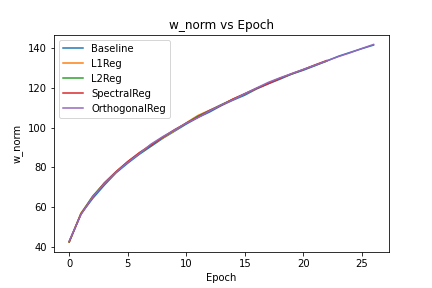
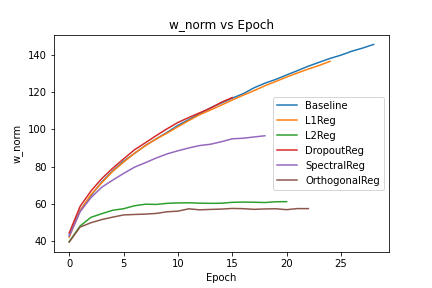
update

diff --git a/main.py b/main.py
@@ -13,6 +13,32 @@ print(tf.__version__)
 print("Num GPUs Available: ", N_GPUS)
 
 #%%
+def get_train_test(batch_size=32):
+    (x_train, y_train), (x_test, y_test) = tf.keras.datasets.mnist.load_data()
+    x_train, x_test = x_train[:, :, :, None].astype(np.float32), x_test[:, :, :, None].astype(np.float32)
+
+    # x_train = np.reshape(x_train, (-1, 784)).astype(np.float32)
+    # x_test = np.reshape(x_test, (-1, 784)).astype(np.float32)
+
+    # one-hot encoding 
+    oh = np.zeros((y_train.size, 10))
+    oh[np.arange(y_train.size), y_train] = 1 
+    y_train = oh
+
+    oh = np.zeros((y_test.size, 10))
+    oh[np.arange(y_test.size), y_test] = 1 
+    y_test = oh
+
+    # Reserve 10,000 samples for validation.
+    x_val = x_train[-10000:]
+    y_val = y_train[-10000:]
+    y_train = y_train[:-10000]
+    x_train = x_train[:-10000]
+
+    return (x_train, y_train), (x_val, y_val), (x_test, y_test)
+
+
+#%%
 def shuffle_and_overwrite(file_name):
     content = open(file_name, 'r').readlines()
     random.shuffle(content)
@@ -39,6 +65,7 @@ def inf():
 
 def train(trainer):
     multi_gpu = True if N_GPUS > 1 else False
+    multi_gpu = False 
     if multi_gpu:
         print('Using Multi-GPU setup...')
         with tf.device('/cpu:0'):
@@ -62,6 +89,9 @@ def train(trainer):
     else: 
         print('Not using Multi-GPU setup...')
 
+    # mnist test 
+    (x_train, y_train), (x_val, y_val), (x_test, y_test) = get_train_test()
+
     with tf.compat.v1.Session(config=tf.compat.v1.ConfigProto(allow_soft_placement=True)) as sess:
         best_sess = sess
         best_score = 0. 
@@ -72,16 +102,18 @@ def train(trainer):
         sess.run([tf.compat.v1.global_variables_initializer(), \
             tf.compat.v1.local_variables_initializer()])
 
-        train_handle_value, val_handle_value, test_handle_value = \
-            sess.run([trainer.train_handle, trainer.val_handle, trainer.test_handle])
+        # train_handle_value, val_handle_value, test_handle_value = \
+        #     sess.run([trainer.train_handle, trainer.val_handle, trainer.test_handle])
 
         for e in range(EPOCHS):
             metrics = init_metrics()
             
-            sess.run([trainer.train_iterator.initializer, \
-                trainer.val_iterator.initializer, trainer.test_iterator.initializer])
+            # sess.run([trainer.train_iterator.initializer, \
+            #     trainer.val_iterator.initializer, trainer.test_iterator.initializer])
 
             # training 
+            sess.run(trainer.dset_init, \
+                feed_dict={trainer.x_data: x_train, trainer.y_data: y_train})
             try: 
                 print('Training...')
                 sess.run(trainer.acc_initializer) # reset accuracy metric
@@ -95,31 +127,39 @@ def train(trainer):
                                     trainer.is_training: True})
                         metrics['train_acc'].append(acc)
                     else: 
-                        _, loss, _ = sess.run([trainer.train_op, trainer.loss, \
-                                    trainer.acc_op], \
-                                    feed_dict={trainer.handle_flag: train_handle_value,
-                                    trainer.is_training: True})
+                        _, loss, _ = sess.run([trainer.train_op, trainer.loss, trainer.acc_op])
+                        # _, loss, _ = sess.run([trainer.train_op, trainer.loss, \
+                        #             trainer.acc_op], \
+                        #             feed_dict={trainer.handle_flag: train_handle_value,
+                        #             trainer.is_training: True})
+
                     metrics['train_loss'].append(loss)
 
                     step += 1
-                    if step % 50 == 0: 
-                        if not multi_gpu: 
-                            metrics['train_acc'] = [sess.run(trainer.acc)]
-                            sess.run(trainer.acc_initializer) # reset accuracy metric
-                        mean_metrics = mean_over_dict(metrics)
-                        writer.write(mean_metrics, step)
-                        metrics = init_metrics()
+                    # if step % 50 == 0: 
+                    #     if not multi_gpu: 
+                    #         metrics['train_acc'] = [sess.run(trainer.acc)]
+                    #         sess.run(trainer.acc_initializer) # reset accuracy metric
+                    #     mean_metrics = mean_over_dict(metrics)
+                    #     writer.write(mean_metrics, step)
+                    #     metrics = init_metrics()
                     
                     if TRIAL_RUN: break 
             except tf.errors.OutOfRangeError: pass 
+            metrics['train_acc'] = [sess.run(trainer.acc)]
 
             # validation -- always single GPU for simplicity 
+            sess.run(trainer.acc_initializer) # reset accuracy metric
+            sess.run(trainer.dset_init, feed_dict={
+                trainer.x_data: x_val, 
+                trainer.y_data: y_val})
             try: 
                 sess.run(trainer.acc_initializer) # reset accuracy metric
                 for i in tqdm(inf()):
-                    loss, _ = sess.run([trainer.loss, trainer.acc_op], \
-                        feed_dict={trainer.handle_flag: val_handle_value, 
-                        trainer.is_training: False})        
+                    loss, _ = sess.run([trainer.loss, trainer.acc_op])        
+                    # loss, _ = sess.run([trainer.loss, trainer.acc_op], \
+                    #     feed_dict={trainer.handle_flag: val_handle_value, 
+                    #     trainer.is_training: False})        
                     metrics['val_loss'].append(loss)
                     
                     if TRIAL_RUN: break 
@@ -147,21 +187,21 @@ def train(trainer):
                 print('Early stopping...')
                 break 
 
-        # test -- also single GPU  
-        try: 
-            sess = best_sess # restore session with the best score
-            sess.run(trainer.acc_initializer) # reset accuracy metric
-            while True:
-                sess.run([trainer.acc_op], \
-                    feed_dict={
-                        trainer.handle_flag: test_handle_value, 
-                        trainer.is_training: False})        
-                if TRIAL_RUN: break 
-        except tf.errors.OutOfRangeError: pass 
+        # # test -- also single GPU  
+        # try: 
+        #     sess = best_sess # restore session with the best score
+        #     sess.run(trainer.acc_initializer) # reset accuracy metric
+        #     while True:
+        #         sess.run([trainer.acc_op], \
+        #             feed_dict={
+        #                 trainer.handle_flag: test_handle_value, 
+        #                 trainer.is_training: False})        
+        #         if TRIAL_RUN: break 
+        # except tf.errors.OutOfRangeError: pass 
 
-        test_acc = sess.run(trainer.acc)
-        writer.write({'test_acc': test_acc}, e+1)
-        print('test_accuracy: ', test_acc)
+        # test_acc = sess.run(trainer.acc)
+        # writer.write({'test_acc': test_acc}, e+1)
+        # print('test_accuracy: ', test_acc)
 
         writer.fin()
     return trainer 
@@ -253,7 +293,7 @@ trainers += new_trainers
 configs += new_configs
 
 # if TRIAL_RUN:
-trainers = [Baseline]
+trainers = [Baseline2D]
 configs = [config]
 
 for config, trainer_class in zip(configs, trainers): 

diff --git a/models.py b/models.py
@@ -207,60 +207,81 @@ class Baseline():
 
 class Baseline2D(Baseline):
     def __init__(self, config):
-        # simple resnet model 
-        self.model2d = tf.keras.applications.ResNet50(include_top=False, weights=None)
-        self.flatten = tf.keras.layers.Flatten()
-        self.dense1 = tf.keras.layers.Dense(config['NUM_CLASSES'], activation='softmax')
+        # # simple resnet model 
+        # self.model2d = tf.keras.applications.ResNet50(include_top=False, weights=None)
+        # self.flatten = tf.keras.layers.Flatten()
+        # self.dense1 = tf.keras.layers.Dense(config['NUM_CLASSES'], activation='softmax')
         super().__init__(config)
 
-    def model(self, x):
-        x = self.model2d(x)
-        x = self.flatten(x)
-        x = self.dense1(x)
-        return x 
+    def get_layers(self, config):
+        return [
+            tf.keras.layers.Conv2D(64, 7, strides=(2, 2), activation="relu", padding='same'),
+            
+            tf.keras.layers.Conv2D(128, 3, strides=(2, 2), activation="relu", padding='same'), 
+            tf.keras.layers.Conv2D(128, 3, activation="relu", padding='same'),
+            tf.keras.layers.MaxPool2D(2, padding='same'),
+
+            tf.keras.layers.Conv2D(256, 3, activation="relu", padding='same'),
+            tf.keras.layers.Conv2D(256, 3, activation="relu", padding='same'),
+            tf.keras.layers.MaxPool2D(2, padding='same'), 
+
+            tf.keras.layers.Flatten(), 
+            tf.keras.layers.Dense(128, activation="relu"), 
+            tf.keras.layers.Dense(config['NUM_CLASSES'], activation='softmax'), 
+        ]
+
+    # def model(self, x):
+    #     x = self.model2d(x)
+    #     x = self.flatten(x)
+    #     x = self.dense1(x)
+    #     return x 
     
     def build_datapipeline(self):
-        # 2d image data -- will auto flatten to (H, W, C)
-        # l2e = lambda x: line2example(x, n_frames=1)
-        # def single_frame
-
-        train_dataset = tf.data.TFRecordDataset(DATAFILE_PATH+'train.tfrecord')\
-            .map(_parse_image_function)\
-            .prefetch(PREFETCH_BUFFER)\
+        self.x_data = tf.placeholder(np.float32, [None, 28, 28, 1])
+        self.y_data = tf.placeholder(np.float32, [None, 10])
+        dataset = tf.data.Dataset.from_tensor_slices((self.x_data, self.y_data))\
             .batch(BATCH_SIZE)
+        self.dataset_iterator = tf.data.Iterator.from_structure(dataset.output_types,
+                                                  dataset.output_shapes)
+        self.dset_init = self.dataset_iterator.make_initializer(dataset)
 
-        val_dataset = tf.data.TFRecordDataset(DATAFILE_PATH+'val.tfrecord')\
-            .map(_parse_image_function)\
-            .prefetch(PREFETCH_BUFFER)\
-            .batch(BATCH_SIZE)
+        return self.dataset_iterator
+
+        # train_dataset = tf.data.TFRecordDataset(DATAFILE_PATH+'train.tfrecord')\
+        #     .map(_parse_image_function)\
+        #     .prefetch(PREFETCH_BUFFER)\
+        #     .batch(BATCH_SIZE)
+
+        # val_dataset = tf.data.TFRecordDataset(DATAFILE_PATH+'val.tfrecord')\
+        #     .map(_parse_image_function)\
+        #     .prefetch(PREFETCH_BUFFER)\
+        #     .batch(BATCH_SIZE)
         
-        test_dataset = tf.data.TFRecordDataset(DATAFILE_PATH+'val.tfrecord')\
-            .map(_parse_image_function)\
-            .prefetch(PREFETCH_BUFFER)\
-            .batch(BATCH_SIZE)
+        # test_dataset = tf.data.TFRecordDataset(DATAFILE_PATH+'val.tfrecord')\
+        #     .map(_parse_image_function)\
+        #     .prefetch(PREFETCH_BUFFER)\
+        #     .batch(BATCH_SIZE)
 
-        self.train_iterator = tf.compat.v1.data.make_initializable_iterator(train_dataset)
-        self.train_handle = self.train_iterator.string_handle()
+        # self.train_iterator = tf.compat.v1.data.make_initializable_iterator(train_dataset)
+        # self.train_handle = self.train_iterator.string_handle()
 
-        self.val_iterator = tf.compat.v1.data.make_initializable_iterator(val_dataset)
-        self.val_handle = self.val_iterator.string_handle()
+        # self.val_iterator = tf.compat.v1.data.make_initializable_iterator(val_dataset)
+        # self.val_handle = self.val_iterator.string_handle()
 
-        self.test_iterator = tf.compat.v1.data.make_initializable_iterator(test_dataset)
-        self.test_handle = self.test_iterator.string_handle()
+        # self.test_iterator = tf.compat.v1.data.make_initializable_iterator(test_dataset)
+        # self.test_handle = self.test_iterator.string_handle()
 
-        self.handle_flag = tf.compat.v1.placeholder(tf.string, [], name='iterator_handle_flag')
-        dataset_iterator = tf.compat.v1.data.Iterator.from_string_handle(self.handle_flag, 
-            tf.compat.v1.data.get_output_types(train_dataset), 
-            tf.compat.v1.data.get_output_shapes(train_dataset))
-
-        return dataset_iterator
+        # self.handle_flag = tf.compat.v1.placeholder(tf.string, [], name='iterator_handle_flag')
+        # dataset_iterator = tf.compat.v1.data.Iterator.from_string_handle(self.handle_flag, 
+        #     tf.compat.v1.data.get_output_types(train_dataset), 
+        #     tf.compat.v1.data.get_output_shapes(train_dataset))
     
     def build_graph(self):
-        dataset_iterator = self.build_datapipeline()
+        self.build_datapipeline()
 
         # model evaluation 
-        xb, yb = dataset_iterator.get_next()
-        xb.set_shape([None, IMAGE_SIZE_H, IMAGE_SIZE_W, 3])
+        xb, yb = self.dataset_iterator.get_next()
+        # xb.set_shape([None, IMAGE_SIZE_H, IMAGE_SIZE_W, 3])
 
         logits = self.model(xb)
         self.loss = self.loss_func(yb, logits)

diff --git a/MNIST_experiment/visualize.py b/MNIST_experiment/visualize.py
@@ -1,6 +1,6 @@
 #%%
 import neptune
-project = neptune.init('gebob19/672')
+project = neptune.init('gebob19/672-mnist')
 
 # %%
 exps = project.get_experiments()
@@ -16,14 +16,30 @@ def get_values(experiment):
 best_exps_values = [get_values(e) for e in best_exps]
 
 #%%
+for data, exp in zip(best_exps_values, best_exps):
+    name = exp.name
+    l = exp.get_parameters()['reg_constant']
+    if name == 'DropoutReg':
+        l = exp.get_parameters()['dropout_constant']
+    if name == 'Baseline':
+        l = ''
+    test_acc = data['test_acc'].values[-1]
+    train_acc = data['train_acc'].values[-2]
+    loss = data['loss'].values[-2]
+    largest_singular_value = data['sum_singular_value'].values[-2]
+    w_mean = data['w_mean'].values[-2]
+
+    print('{}: {:.2f} {:.2f} {} {:.2f} {}'.format(name, test_acc, train_acc, l, largest_singular_value, w_mean)) 
+
+#%%
 # remove dropout for better visualizations 
-dropout_index = [e.name for e in best_exps].index('DropoutReg')
+dropout_index = exp_names.index('DropoutReg')
 del best_exps[dropout_index]
 del best_exps_values[dropout_index]
 
 #%%
 import pathlib 
-chart_dir = pathlib.Path()/'charts'
+chart_dir = pathlib.Path()/'charts/without-dropout/'
 chart_dir.mkdir(exist_ok=True, parents=True)
 
 # %%
@@ -31,7 +47,6 @@ import matplotlib.pyplot as plt
 
 for col in best_exps_values[0].columns[1:]:
     for data, exp in zip(best_exps_values, best_exps): 
-        # x = data[data.columns[0]]
         y = data[col]
         plt.plot(y, label=exp.name)
     plt.xlabel('Epoch')

diff --git a/MNIST_experiment/main.py b/MNIST_experiment/main.py
@@ -23,8 +23,10 @@ print(tf.__version__)
 #%%
 def get_train_test(batch_size=32):
     (x_train, y_train), (x_test, y_test) = tf.keras.datasets.mnist.load_data()
-    x_train = np.reshape(x_train, (-1, 784)).astype(np.float32)
-    x_test = np.reshape(x_test, (-1, 784)).astype(np.float32)
+    x_train, x_test = x_train.astype(np.float32), x_test.astype(np.float32)
+
+    # x_train = np.reshape(x_train, (-1, 784)).astype(np.float32)
+    # x_test = np.reshape(x_test, (-1, 784)).astype(np.float32)
 
     # one-hot encoding 
     oh = np.zeros((y_train.size, 10))
@@ -175,6 +177,12 @@ def train(trainer):
 
         W = sess.run(trainer.w)
     return trainer, W
+
+#%%
+(x_train, y_train), (x_val, y_val), (x_test, y_test) = get_train_test()
+#%%
+x_train.shape
+#%%
 
 #%%
 trial_run = True 

diff --git a/config.py b/config.py
@@ -1,7 +1,7 @@
-IMAGE_SIZE_H, IMAGE_SIZE_W = 224, 224
+IMAGE_SIZE_H, IMAGE_SIZE_W = 28, 28
 BATCH_SIZE = 16
 PREFETCH_BUFFER = BATCH_SIZE
-TOP_N = 100
+TOP_N = 10
 NUM_CLASSES = TOP_N
 
 import tensorflow as tf 
